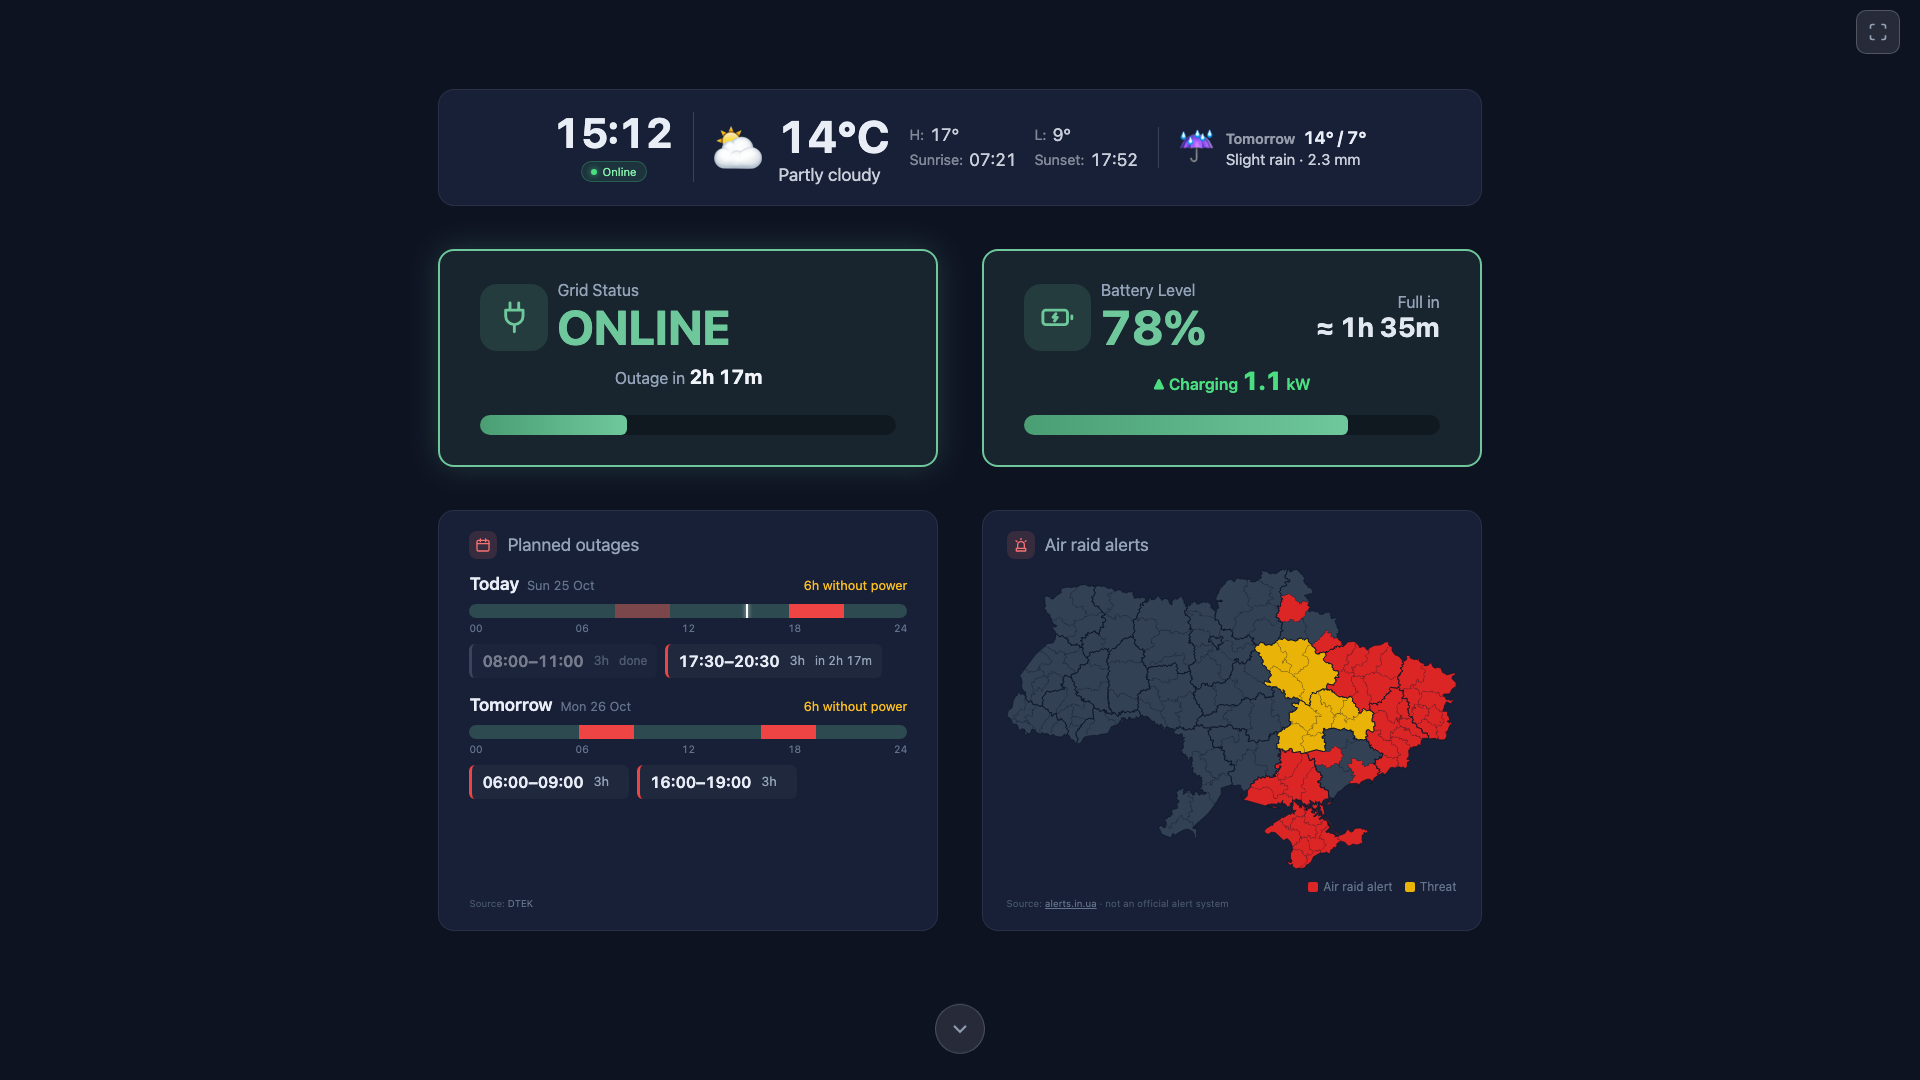
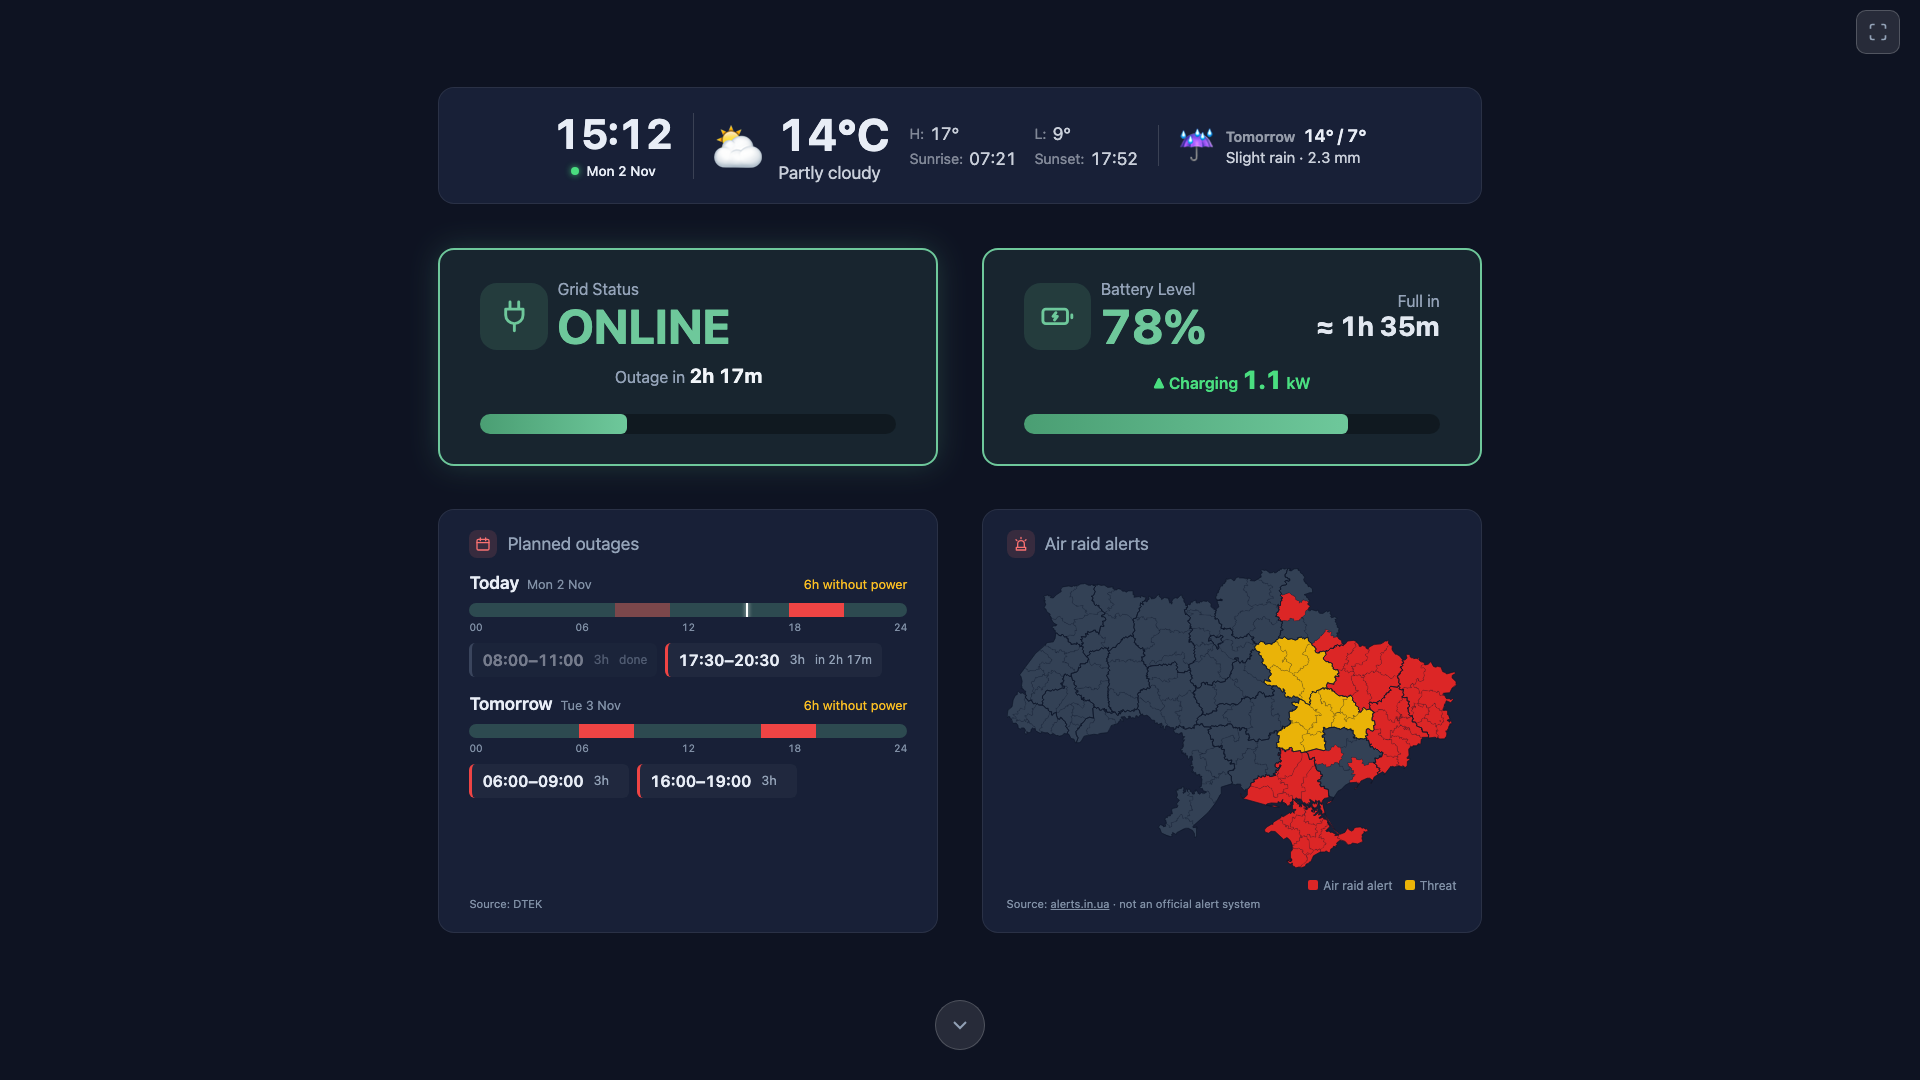
README: smart meter chart, outage history, CUT BY METER; new screenshots
- Feature lists, smart meter section (outage timing from the meter's
  silence, the grid banner's CUT BY METER, SMART_METER_SWITCH_ON_DELAY /
  _OUTAGES_FILE), power_history.json and all API endpoints
- Fixed: Python 3.10+ (pinned packages), OUTAGE_PROVIDER default
  lvivoblenergo, 30 s polling in the Ukrainian section, deploy.sh wizard
  order and copied files, check_inverter.py / discover_inverter.py
- Screenshots with the Outage history card and the meter chart

diff --git a/README.md b/README.md
@@ -18,13 +18,15 @@ What this project adds to the original [ivanursul/deye-dashboard](https://github
 
 **New cards and features**
 - **Air raid alerts map:** Ukraine with oblasts and raions, live from [alerts.in.ua](https://alerts.in.ua/) (with a free API token) or [NEPTUN](https://neptun.in.ua/) (no key needed), refreshed every 30 s, on a card and on the fullscreen first page. You can show the whole country or zoom to one region, with neighbouring regions dimmed around it (Settings → step 4).
-- **Planned outages:** today's and tomorrow's outage windows on a timeline, plus a countdown in the grid banner. Adds a DTEK provider (Kyiv oblast, Kyiv, Dnipro, Odesa). A failed schedule fetch is no longer reported as "No outages today".
-- **Bakler smart meter** (optional): live power, voltage and current per phase over MQTT, with a Mosquitto broker in `docker-compose.yml`. Phases cut by the meter or without supply are highlighted. The relay state is shown read-only. A demo mode is included.
+- **Planned outages:** today's and tomorrow's outage windows on a timeline, plus a countdown in the grid banner. An outage that continues past midnight (e.g. 22:00–24:00 and 00:00–04:00) counts as one, so the banner says when the power is really back. Adds a DTEK provider (Kyiv oblast, Kyiv, Dnipro, Odesa). A failed schedule fetch is no longer reported as "No outages today".
+- **Bakler smart meter** (optional): live power, voltage and current per phase over MQTT, with a Mosquitto broker in `docker-compose.yml`, and a 24-hour power chart. Phases cut by the meter or without supply are highlighted. The relay state is shown read-only. A demo mode is included.
+- **Outage history** (with the smart meter): the grid outages the meter saw today and yesterday, total or partial, with start, end and duration.
 - **Battery estimates:**
   - "Lasts about …" during an outage, counting down to the inverter's shutdown level;
   - "Full in …" while charging;
   - both based on a ~10-minute average power, with an optional `BATTERY_CAPACITY_KWH`.
-- **Grid status that matches reality:** taken from the inverter's grid relay. A partial outage (e.g. "L2 DOWN" / "НЕМАЄ ФАЗИ L2") and "grid out of range" are shown separately from a total outage. Grid voltage is shown per phase.
+- **Grid status that matches reality:** taken from the inverter's grid relay. A partial outage (e.g. "L2 DOWN" / "НЕМАЄ ФАЗИ L2") and "grid out of range" are shown separately from a total outage. With the smart meter, phases its protection switched off while the grid is there show as "CUT BY METER" / "L3 CUT" instead of an outage. Grid voltage is shown per phase.
+- **24-hour charts** on the solar, battery, consumption and smart meter cards. Tap one for a larger chart with the value at any time, the peak and the day's total.
 - **Weather:** tomorrow's forecast in the fullscreen weather banner.
 - **Phase balance card** (was "Daily Phase Analytics"): today's kWh per phase plus one bar per day for the last 7 days. Tap a day for details.
 - **Consumption card:** home consumption and load per phase merged into one card.
@@ -61,7 +63,7 @@ What this project adds to the original [ivanursul/deye-dashboard](https://github
   - crash-safe data files;
   - validated settings;
   - background services that only start in `main()`;
-  - a test suite of over 400 tests.
+  - a test suite of over 500 tests.
 
 
 ## How It Works (for non-technical users)
@@ -129,7 +131,7 @@ You don't need to be a programmer, but you should be comfortable with basic comp
                               Ваш телефон / планшет / ПК (відкриває панель у браузері)
 ```
 
-Raspberry Pi зчитує дані з вашого інвертора кожні 60 секунд через локальну мережу. Потім він відображає ці дані на веб-сторінці, яку можна відкрити з будь-якого пристрою у вашому домі — телефону, планшета чи комп'ютера — перейшовши за адресою Raspberry Pi у браузері (наприклад, `http://192.168.1.50:8080`).
+Raspberry Pi зчитує дані з вашого інвертора кожні 30 секунд через локальну мережу. Потім він відображає ці дані на веб-сторінці, яку можна відкрити з будь-якого пристрою у вашому домі — телефону, планшета чи комп'ютера — перейшовши за адресою Raspberry Pi у браузері (наприклад, `http://192.168.1.50:8080`).
 
 ### Огляд налаштування
 
@@ -144,14 +146,14 @@ Raspberry Pi зчитує дані з вашого інвертора кожні
 
 ## Features
 
-- **Real-time monitoring** — solar production, battery SOC, grid power, and load consumption
+- **Real-time monitoring** — solar production, battery SOC, grid power, and load consumption, with 24-hour charts
 - **Load analytics** — per-phase power distribution with daily statistics (3-phase systems)
 - **Weather** — current conditions and forecast via Open-Meteo API
-- **Planned outages** — today's and tomorrow's outage windows on a timeline, plus a countdown in the grid banner (Lvivoblenergo, Yasno, or DTEK providers)
+- **Planned outages** — today's and tomorrow's outage windows on a timeline, plus a countdown in the grid banner that follows an outage past midnight (Lvivoblenergo, Yasno, or DTEK providers)
 - **Outage readiness** — whether the battery will last through the next planned outage, at the last 30 minutes' average load
 - **Inverter & battery health** — inverter state and temperatures, fault / warning codes, lifetime battery charge and discharge with equivalent full cycles (3-phase hybrids)
 - **Air raid alerts** — map of Ukraine's regions and districts with live alert statuses (alerts.in.ua or NEPTUN)
-- **Smart meter** — power, voltage, current and energy from a Bakler Wi-Fi electricity meter over MQTT (optional)
+- **Smart meter** — power (with a 24-hour chart), voltage, current and energy from a Bakler Wi-Fi electricity meter over MQTT, an outage history of what it saw, and "CUT BY METER" on the grid banner when its protection switches the house off (optional)
 - **Grid outage detection** — browser notifications when power goes out
 - **Telegram bot** — battery reports, inverter status, and Ukrainian weather poems
 - **Fullscreen mode** — kiosk-friendly display with weather, grid, and battery banners
@@ -159,7 +161,7 @@ Raspberry Pi зчитує дані з вашого інвертора кожні
 
 ## Requirements
 
-- Python 3.7+
+- Python 3.10+ (the Docker image uses 3.11)
 - Deye inverter with Solarman Wi-Fi logger
 - Network access to the inverter
 
@@ -275,6 +277,7 @@ The container mounts a `data` volume at `/app/data`. Everything the dashboard st
 - Configuration (`.env`)
 - Phase statistics (`phase_stats.json`)
 - Grid import log, generator log, last inverter readings, detected inverter model (`grid_daily_log.json`, `generator_log.json`, `inverter_cache.json`, `inverter_config.json`)
+- The last 24 hours for the cards' charts (`power_history.json`)
 - Telegram bot state and battery reports (`bot_state.json`, `battery_reports/`)
 - Smart meter daily counter (`smart_meter_daily.json`), its outage log (`meter_outages.json`) and Mosquitto broker files (`mosquitto/`)
 
@@ -329,7 +332,7 @@ Coordinates are used to fetch weather data from the [Open-Meteo API](https://ope
 
 | Variable | Description | Default |
 |----------|-------------|---------|
-| `OUTAGE_PROVIDER` | Provider name: `lvivoblenergo`, `yasno`, `dtek`, or `none` | `none` |
+| `OUTAGE_PROVIDER` | Provider name: `lvivoblenergo`, `yasno`, `dtek`, or `none` | `lvivoblenergo` |
 | `OUTAGE_GROUP` | Your outage queue/group number (e.g. `1.1`, `2.2`) | — |
 
 **Yasno-specific settings** (only when `OUTAGE_PROVIDER=yasno`):
@@ -386,9 +389,17 @@ All three are also in Settings → Edit configuration, step 4 ("Air raid alerts"
 
 ### Smart Meter (optional)
 
-The **Smart meter** card shows live readings from a [Bakler](https://www.bakler.com.ua/) Wi-Fi electricity meter: current power, voltage and current (a per-phase table for three-phase meters, where a phase below 100 V is shown as "No voltage"), mains frequency and the relay state. When the meter or the broker is unavailable, a badge says so (Waiting for data / Meter offline / No recent data / MQTT broker unavailable) and the last known readings are dimmed. The relay is shown only; the dashboard never switches it.
+The **Smart meter** card shows live readings from a [Bakler](https://www.bakler.com.ua/) Wi-Fi electricity meter: current power with a 24-hour chart, voltage and current (a per-phase table for three-phase meters, where a phase below 100 V is shown as "No voltage"), mains frequency and the relay state. When the meter or the broker is unavailable, a badge says so (Waiting for data / Meter offline / No recent data / MQTT broker unavailable) and the last known readings are dimmed. The relay is shown only; the dashboard never switches it.
 
-With the meter, an **Outage history** card lists the grid outages it saw today and yesterday, newest first, with start, end and duration (a running one counts on). **No grid**: every phase without voltage, or the meter went offline (it's powered by the grid) for 90 s while the inverter doesn't see the grid either; if the inverter still has the grid, the meter only lost its Wi-Fi and nothing is logged. **Partial**: some phases missing, each marked as *no voltage from the grid* or *disconnected by the meter* (its relay, e.g. the overvoltage protection; three-phase meters with one relay per phase). The meter's wait before it switches the house back on after an outage (its switch-on delay, a setting in the meter's app) counts as part of that outage; a longer hold is its protection and an entry of its own. The meter doesn't report that setting, so if yours isn't the default 120 s, set `SMART_METER_SWITCH_ON_DELAY` (seconds) in `data/.env`. The card shows the latest five, with today's count and time without power; the rest of today and yesterday is one tap away. Outages under 10 s aren't kept; older days are dropped. Kept in `data/meter_outages.json`.
+With the meter, an **Outage history** card lists the grid outages it saw today and yesterday, newest first, with start, end and duration (a running one counts on):
+
+- **No grid:** every phase without voltage, or the meter (it's powered by the grid) sent nothing for 90 s while the inverter doesn't see the grid either. Such an outage starts at the meter's last message and ends when the inverter sees the grid again, even if the meter is still reconnecting. If the inverter still has the grid, the meter only lost its Wi-Fi and nothing is logged.
+- **Partial:** some phases missing, each marked as *no voltage from the grid* or *disconnected by the meter* (its relay, e.g. the over- or undervoltage protection; three-phase meters with one relay per phase).
+- **The meter's switch-on wait:** after an outage the meter keeps the house off for its switch-on delay (a setting in the meter's app). That wait counts as part of the outage; a longer hold is its protection and an entry of its own. The meter doesn't report that setting, so if yours isn't the default 120 s, set `SMART_METER_SWITCH_ON_DELAY` (seconds) in `data/.env`.
+
+The card shows the latest five, with today's count and time without power; the rest of today and yesterday is one tap away. Outages under 10 s aren't kept; older days are dropped. Kept in `data/meter_outages.json`.
+
+The inverter sits after the meter, so it sees a phase the meter switched off as missing. With current meter readings, the **grid banner** tells the two apart: **CUT BY METER** ("Grid present · meter protection") when the meter cut every phase while the grid has voltage, **L3 CUT** ("Cut by meter") for one phase, instead of OUTAGE / "L3 DOWN". The line under the banner then follows the schedule as with the grid on, and the Telegram outage message says the meter switched the phases off.
 
 The meter talks MQTT: it connects to a broker and publishes its readings there ([MQTT docs, in Ukrainian](https://www.bakler.com.ua/setting-mqtt-client/)). `docker compose` starts a Mosquitto broker (`inverter-mosquitto`, port 1883) next to the dashboard.
 
@@ -413,8 +424,10 @@ Without `SMART_METER_MQTT_USER` / `SMART_METER_MQTT_PASSWORD` the broker accepts
 | `SMART_METER_MQTT_PORT` | Broker port | `1883` |
 | `SMART_METER_SERIAL` | Meter serial (topic `buckler/<serial>/…`) when several meters share the broker; otherwise the first one seen is used | — |
 | `SMART_METER_INTERVAL` | Update interval requested from the meter, 1–60 s (`0` = leave the meter's setting) | `10` |
+| `SMART_METER_SWITCH_ON_DELAY` | The meter's switch-on delay in seconds (set in the meter's app), for joining its wait to the outage before it | `120` |
 | `SMART_METER_DAILY_FILE` | Where today's starting counter is kept | `data/smart_meter_daily.json` |
-| `SMART_METER_DEMO` | `1` / `3`: show simulated single-/three-phase readings (marked "Demo data") instead of a real meter; no broker needed. The three-phase demo drops L3 for the first minute of every 5 minutes | — |
+| `SMART_METER_OUTAGES_FILE` | Where the outage history is kept | `data/meter_outages.json` |
+| `SMART_METER_DEMO` | `1` / `3`: show simulated single-/three-phase readings (marked "Demo data") instead of a real meter; no broker needed. The three-phase demo drops L3 for the first minute of every 5 minutes. Its chart values are dropped when you switch to a real meter | — |
 
 ### Language
 
@@ -512,17 +525,17 @@ You need a `.env` file with at least `INVERTER_IP` and `LOGGER_SERIAL` set. Eith
 
 ## Deploying to a Remote Server
 
-`deploy.sh` deploys the dashboard to a remote Linux server over SSH and sets it up as a systemd service. The remote server needs Python 3.7+, SSH access, and `sudo` for systemd management.
+`deploy.sh` deploys the dashboard to a remote Linux server over SSH and sets it up as a systemd service. The remote server needs Python 3.10+, SSH access, and `sudo` for systemd management.
 
 ### Prerequisites
 
 - SSH key-based access to the remote server (the script runs `ssh` and `rsync` non-interactively)
 - `sudo` privileges on the remote server (for systemd service setup)
-- Python 3.7+ installed on the remote server
+- Python 3.10+ installed on the remote server
 
 ### First-time deploy
 
-If no `.env` file exists, the script runs an interactive setup wizard:
+If no `.env` file exists, the script runs an interactive setup wizard (`setup.py`):
 
 ```bash
 chmod +x deploy.sh
@@ -531,11 +544,12 @@ chmod +x deploy.sh
 
 The wizard prompts for all settings in order:
 
-1. **Inverter** — IP address and logger serial number
-2. **Deployment** — remote host, SSH user, install directory, service name
-3. **Weather** — latitude and longitude for forecast (defaults to Kyiv)
-4. **Outage schedule** — provider selection (Lvivoblenergo, Yasno, or none) with provider-specific follow-up questions
+1. **Inverter** — IP address (it scans the local network for loggers first), logger serial number and phase count (empty: auto-detect)
+2. **Weather** — latitude and longitude for forecast (defaults to Kyiv)
+3. **Outage schedule** — provider selection (Lvivoblenergo, Yasno, DTEK, or none) with provider-specific follow-up questions
+4. **Generator** — whether one is connected to the GEN/GRID2 port
 5. **Telegram** — enable/disable, bot token, and allowed user IDs
+6. **Deployment** — remote host, SSH user, install directory, service name
 
 After answering all prompts, the script:
 - Writes the `.env` file
@@ -556,7 +570,7 @@ To change settings, edit `.env` directly and re-deploy.
 
 ### What the deploy script does
 
-1. **Rsync** — copies `app.py`, `inverters/`, `telegram_bot.py`, `poems.py`, `outage_providers/`, `requirements.txt`, `templates/`, and `.env` to the remote server
+1. **Rsync** — copies the app (`app.py` and its modules, `inverters/`, `outage_providers/`, `templates/`, `static/`, `locales/`, `requirements.txt`, …) and `.env` to the remote server
 2. **Python setup** — creates a virtual environment (if needed) and installs dependencies from `requirements.txt`
 3. **Systemd service** — creates a service file at `/etc/systemd/system/<service-name>.service`, enables it, and restarts it
 4. The dashboard runs on port 8080 by default
@@ -643,6 +657,12 @@ On ASUS routers the IoT network ("Guest Network Pro") has only an all-or-nothing
 # Test inverter connection
 python test_connection.py
 
+# Quick check that a logger answers: python check_inverter.py <IP> <LOGGER_SERIAL>
+python check_inverter.py 192.168.1.100 1234567890
+
+# Find Solarman loggers on the local network
+python discover_inverter.py
+
 # Scan for battery voltage register
 python scan_battery.py
 
@@ -657,11 +677,17 @@ python scan_registers.py
 
 | Endpoint | Method | Description |
 |----------|--------|-------------|
-| `/api/data` | GET | Current inverter readings |
+| `/api/data` | GET | Current inverter readings (with a smart meter, also `meter_cut`: the phases it switched off while the grid is there) |
+| `/api/history` | GET | The last 24 hours of battery charge, solar, load and smart meter power in 5-minute averages, for the cards' charts |
 | `/api/weather` | GET | Current weather and forecast |
-| `/api/outage_schedule` | GET | Current outage status, plus today's and (if published) tomorrow's planned windows |
+| `/api/outage_schedule` | GET | Current outage status (an outage continuing past midnight counts as one), plus today's and (if published) tomorrow's planned windows |
+| `/api/outage-readiness` | GET | Whether the battery will last through the next planned outage |
 | `/api/phase-stats` | GET | Daily phase statistics |
-| `/api/phase-stats/clear` | POST | Clear phase statistics |
+| `/api/phase-stats/clear` | POST | Clear phase statistics (settings PIN) |
+| `/api/generator` | GET | Generator status and runtime |
+| `/api/alerts` | GET | Air raid alert statuses by region and district |
+| `/api/smart-meter` | GET | Smart meter readings (`status: disabled` without one) |
+| `/api/meter-outages` | GET | Grid outages the smart meter saw today and yesterday, newest first |
 
 ## Support
 
